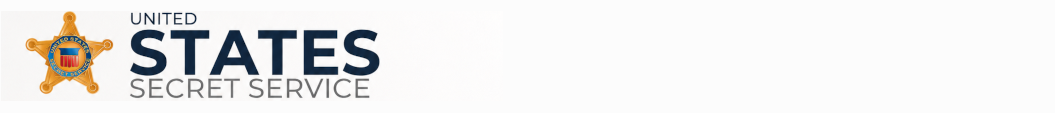
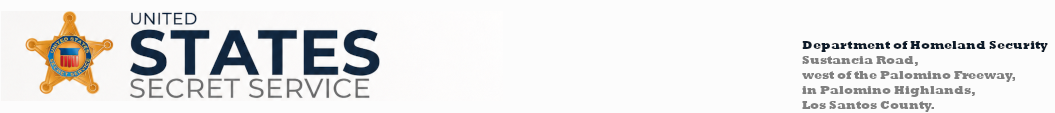
Add files via upload

diff --git a/contratusss.html b/contratusss.html
@@ -127,7 +127,7 @@ ZONE SIGNATURE BAS DOCUMENT
 /* LOGOS */
 
 .logo {
-  width: 90px;
+  width: 120px;
 }
 
 /* BLOC CENTRE (fonction + nom) */
@@ -178,6 +178,13 @@ FORMULAIRE HAUT PAGE
   text-align: left;
 }
 
+
+.ligne-banniere {
+  width: 100%;
+  height: 3px; /* épaisseur */
+  background-color: #e19023; /* couleur */
+}
+
 </style>
 </head>
 
@@ -215,6 +222,8 @@ DOCUMENT FINAL
 <img src="banniere.png">
 
 </div>
+
+<div class="ligne-banniere"></div>
 
 <div class="content">
 
@@ -262,7 +271,7 @@ DOCUMENT FINAL
 
 <hr>
 
-<p>Fait au Palais de Justice de San Andreas en date du :
+<p>Fait au Department of Homeland Security en date du :
 <span id="d2"></span>
 </p>
 
